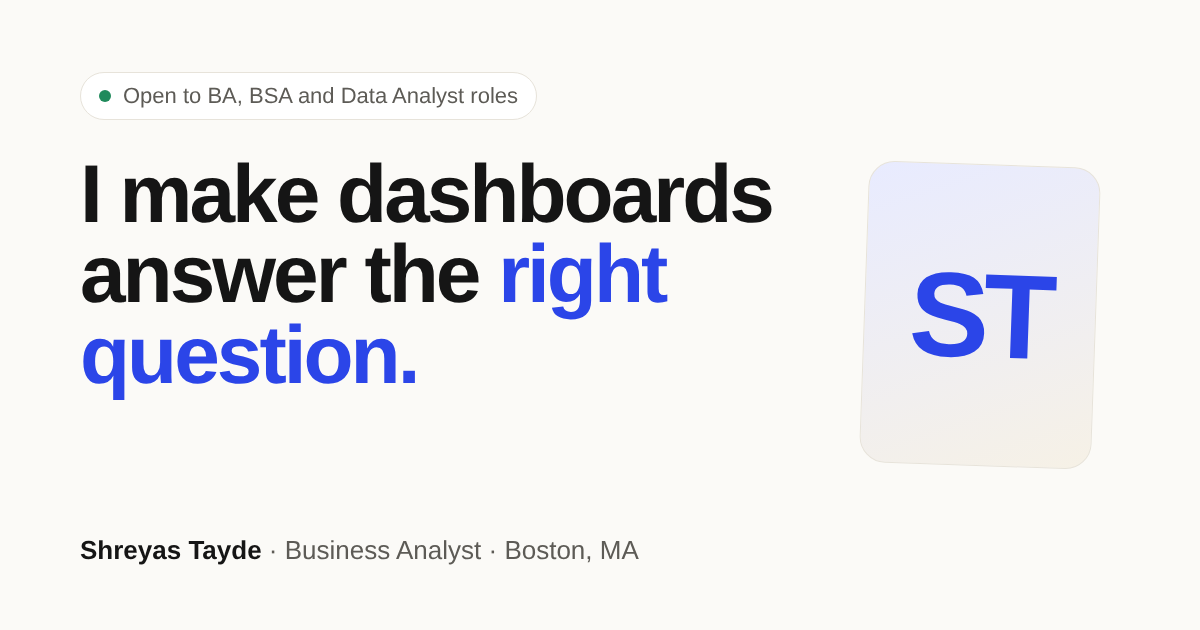
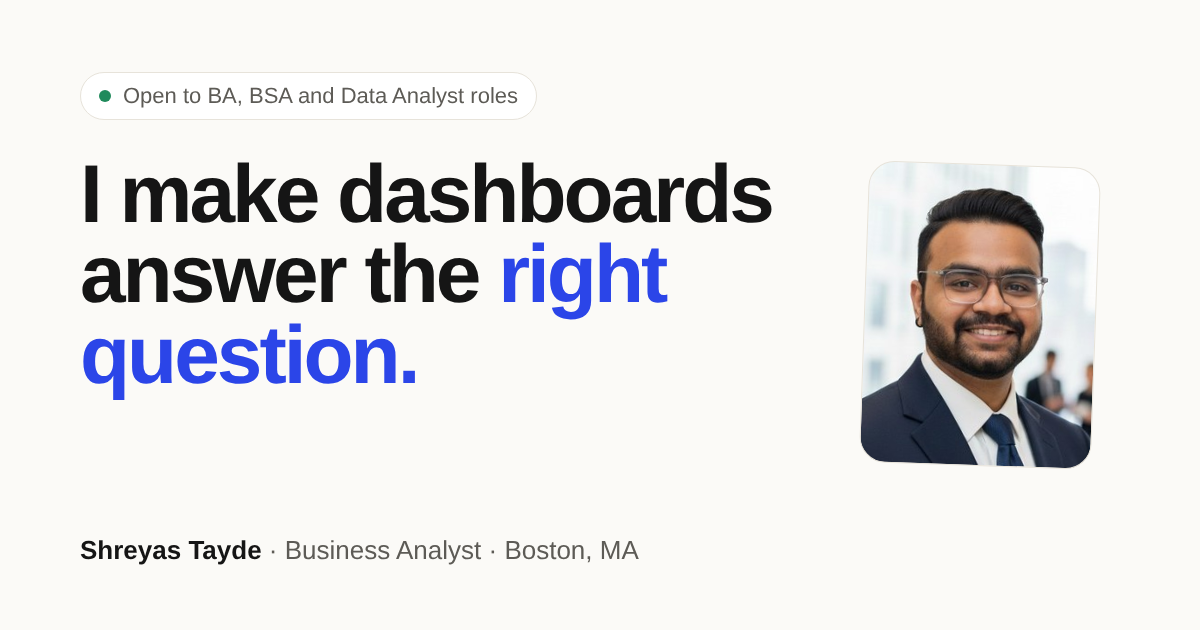
Add profile photo to hero, About and share preview
Claude-Session: https://claude.ai/code/session_016ZBX7yCbPSg1Qi3gQzS69v

Changed region(s): [[0.7092, 0.3016, 0.925, 0.754]]

diff --git a/index.html b/index.html
@@ -92,6 +92,7 @@ header.scrolled{border-bottom-color:var(--line)}
 .idcard{background:var(--card);border:1px solid var(--line);border-radius:22px;padding:24px;box-shadow:0 1px 0 rgba(0,0,0,.02),0 24px 48px -28px rgba(20,20,40,.25);transform:rotate(1.2deg);transition:transform .5s cubic-bezier(.2,.7,.2,1)}
 .idcard:hover{transform:rotate(0deg) translateY(-4px)}
 .photo{aspect-ratio:4/4.3;border-radius:14px;background:linear-gradient(160deg,#e8ebff 0%,#f6f1e6 100%);display:grid;place-items:center;position:relative;overflow:hidden}
+.photo img{width:100%;height:100%;object-fit:cover;object-position:50% 30%;display:block}
 .photo .mono{font-family:var(--f-display);font-weight:800;font-size:clamp(84px,10vw,128px);letter-spacing:-.05em;color:var(--accent)}
 .photo .tag{position:absolute;left:12px;bottom:12px;font-family:var(--f-mono);font-size:11px;letter-spacing:.05em;text-transform:uppercase;background:rgba(255,255,255,.85);padding:5px 9px;border-radius:999px;color:var(--muted)}
 .idrows{display:grid;margin-top:16px}
@@ -285,6 +286,7 @@ header.scrolled{border-bottom-color:var(--line)}
 .path div{padding:14px 10px 0 0}
 .path b{display:block;font-family:var(--f-display);font-size:17px}
 .path span{font-size:13.5px;color:var(--muted)}
+.about-pic{width:100%;max-width:340px;aspect-ratio:1/1;object-fit:cover;object-position:50% 25%;border-radius:20px;border:1px solid var(--line);margin-bottom:18px;display:block}
 .facts{display:grid;gap:12px}
 .fact{background:var(--card);border:1px solid var(--line);border-radius:16px;padding:16px 18px;display:grid;grid-template-columns:112px 1fr;gap:12px;font-size:15.5px}
 .fact span:first-child{font-family:var(--f-mono);font-size:11.5px;letter-spacing:.05em;text-transform:uppercase;color:var(--muted);padding-top:3px}
@@ -357,7 +359,7 @@ footer .wrap{display:flex;justify-content:space-between;gap:16px;flex-wrap:wrap}
           </div>
         </div>
         <aside class="idcard" aria-label="Profile summary">
-          <div class="photo"><span class="mono" aria-hidden="true">ST</span><span class="tag">Boston, MA</span></div>
+          <div class="photo"><img src="shreyas.jpg" width="720" height="774" alt="Shreyas Tayde, smiling, in a navy suit" fetchpriority="high"><span class="tag">Boston, MA</span></div>
           <div class="idrows">
             <div><span>Now</span><span>Jr. Technical Analyst, supporting CVS Health</span></div>
             <div><span>Looking for</span><span>BA · BSA · Data Analyst</span></div>
@@ -704,6 +706,7 @@ footer .wrap{display:flex;justify-content:space-between;gap:16px;flex-wrap:wrap}
         <div class="rv">
           <p class="eyebrow">About me</p>
           <h2 id="ab-h" style="margin:12px 0 26px">Hi, I'm Shreyas.</h2>
+          <img class="about-pic" src="shreyas.jpg" width="720" height="774" alt="" loading="lazy">
           <div class="facts">
             <div class="fact"><span>From</span><span>Nashik, India. Now in Boston.</span></div>
             <div class="fact"><span>Off the clock</span><span>Cricket, slice-of-life anime, and short drives along the Boston waterfront.</span></div>
